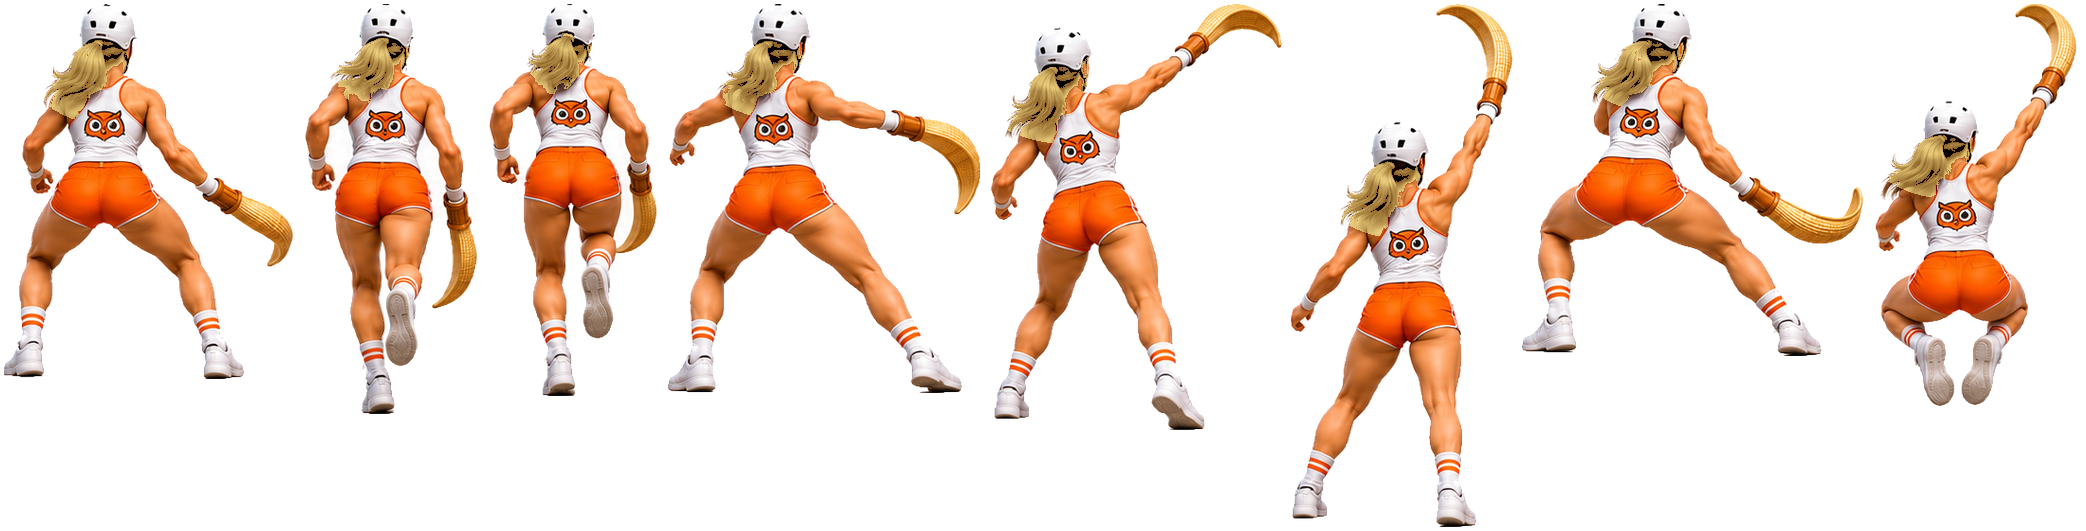
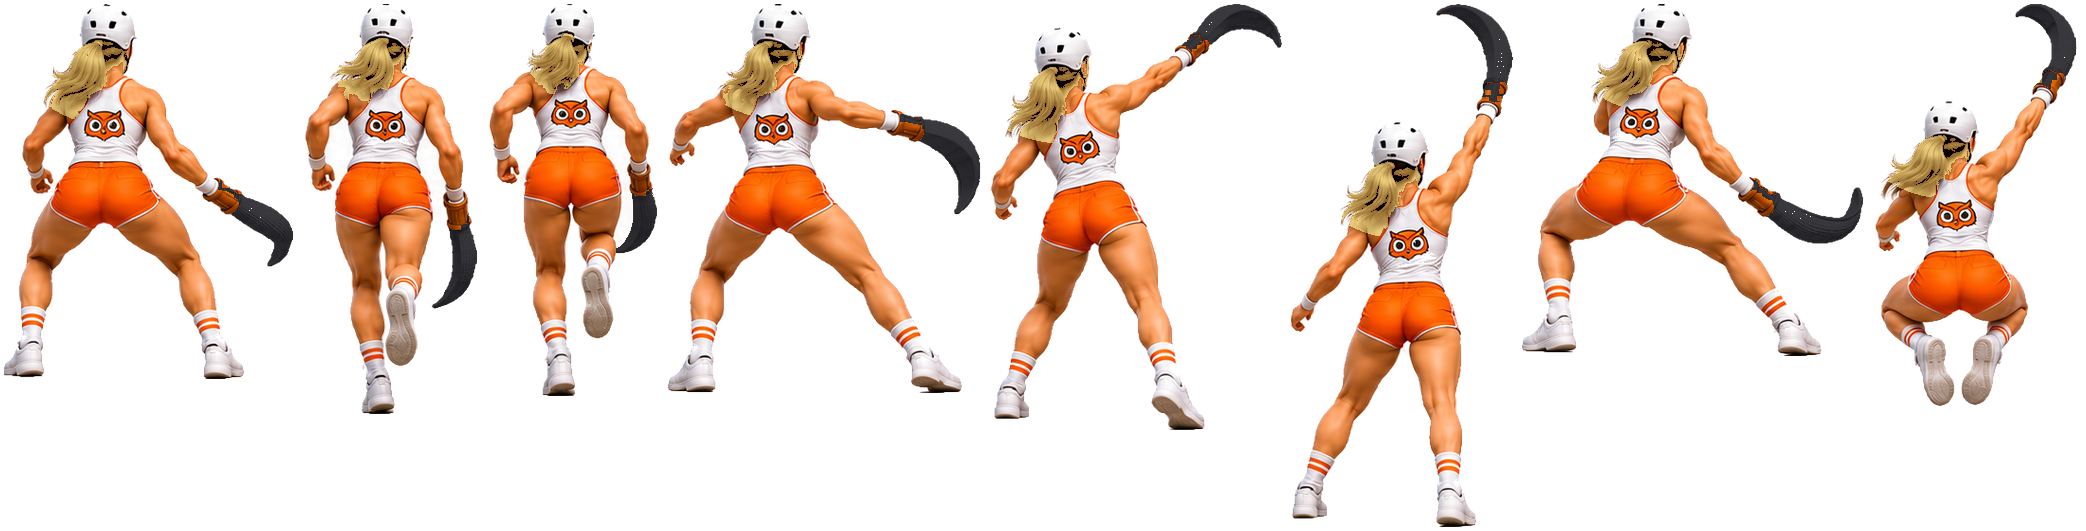
Black cestas on the Hoots vs Peaks sheets
Claude-Session: https://claude.ai/code/session_01RXYkimbn35SjoihCfai7fS

diff --git a/index.html b/index.html
@@ -18,7 +18,7 @@ img { max-width: 100%; }
 [hidden] { display: none !important; }
 </style>
 <script>
-window.FL_BUILD = "20261126195131";
+window.FL_BUILD = "20261126195215";
 window.FL_RELAY = "wss://relay-production-5e78c1a2.up.railway.app/ws";
 window.FL_STATS = "https://relay-production-5e78c1a2.up.railway.app/t";
 window.FL_FEEDBACK = "https://relay-production-5e78c1a2.up.railway.app/feedback";

diff --git a/johan-vs-gorka.html b/johan-vs-gorka.html
@@ -18,7 +18,7 @@ img { max-width: 100%; }
 [hidden] { display: none !important; }
 </style>
 <script>
-window.FL_BUILD = "20261126195131";
+window.FL_BUILD = "20261126195215";
 window.FL_RELAY = "wss://relay-production-5e78c1a2.up.railway.app/ws";
 window.FL_STATS = "https://relay-production-5e78c1a2.up.railway.app/t";
 window.FL_FEEDBACK = "https://relay-production-5e78c1a2.up.railway.app/feedback";
